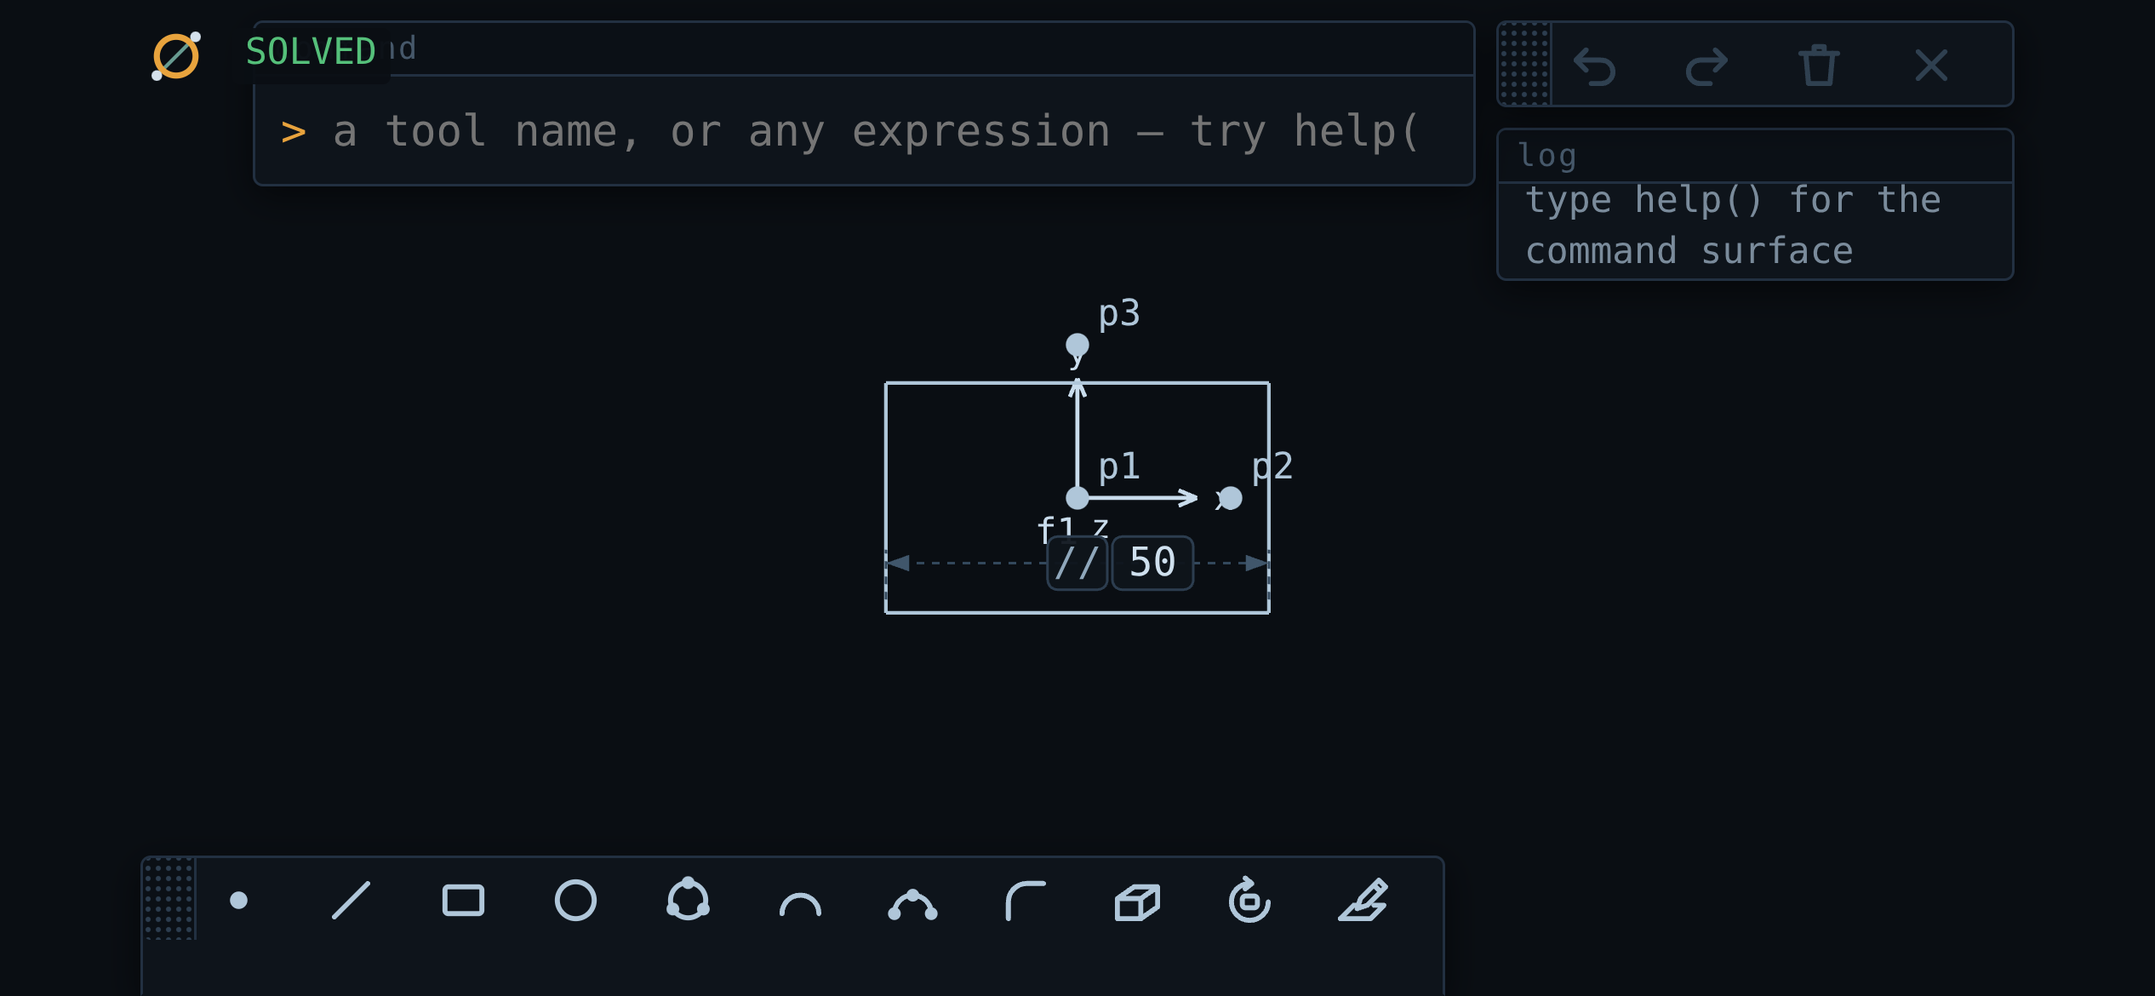
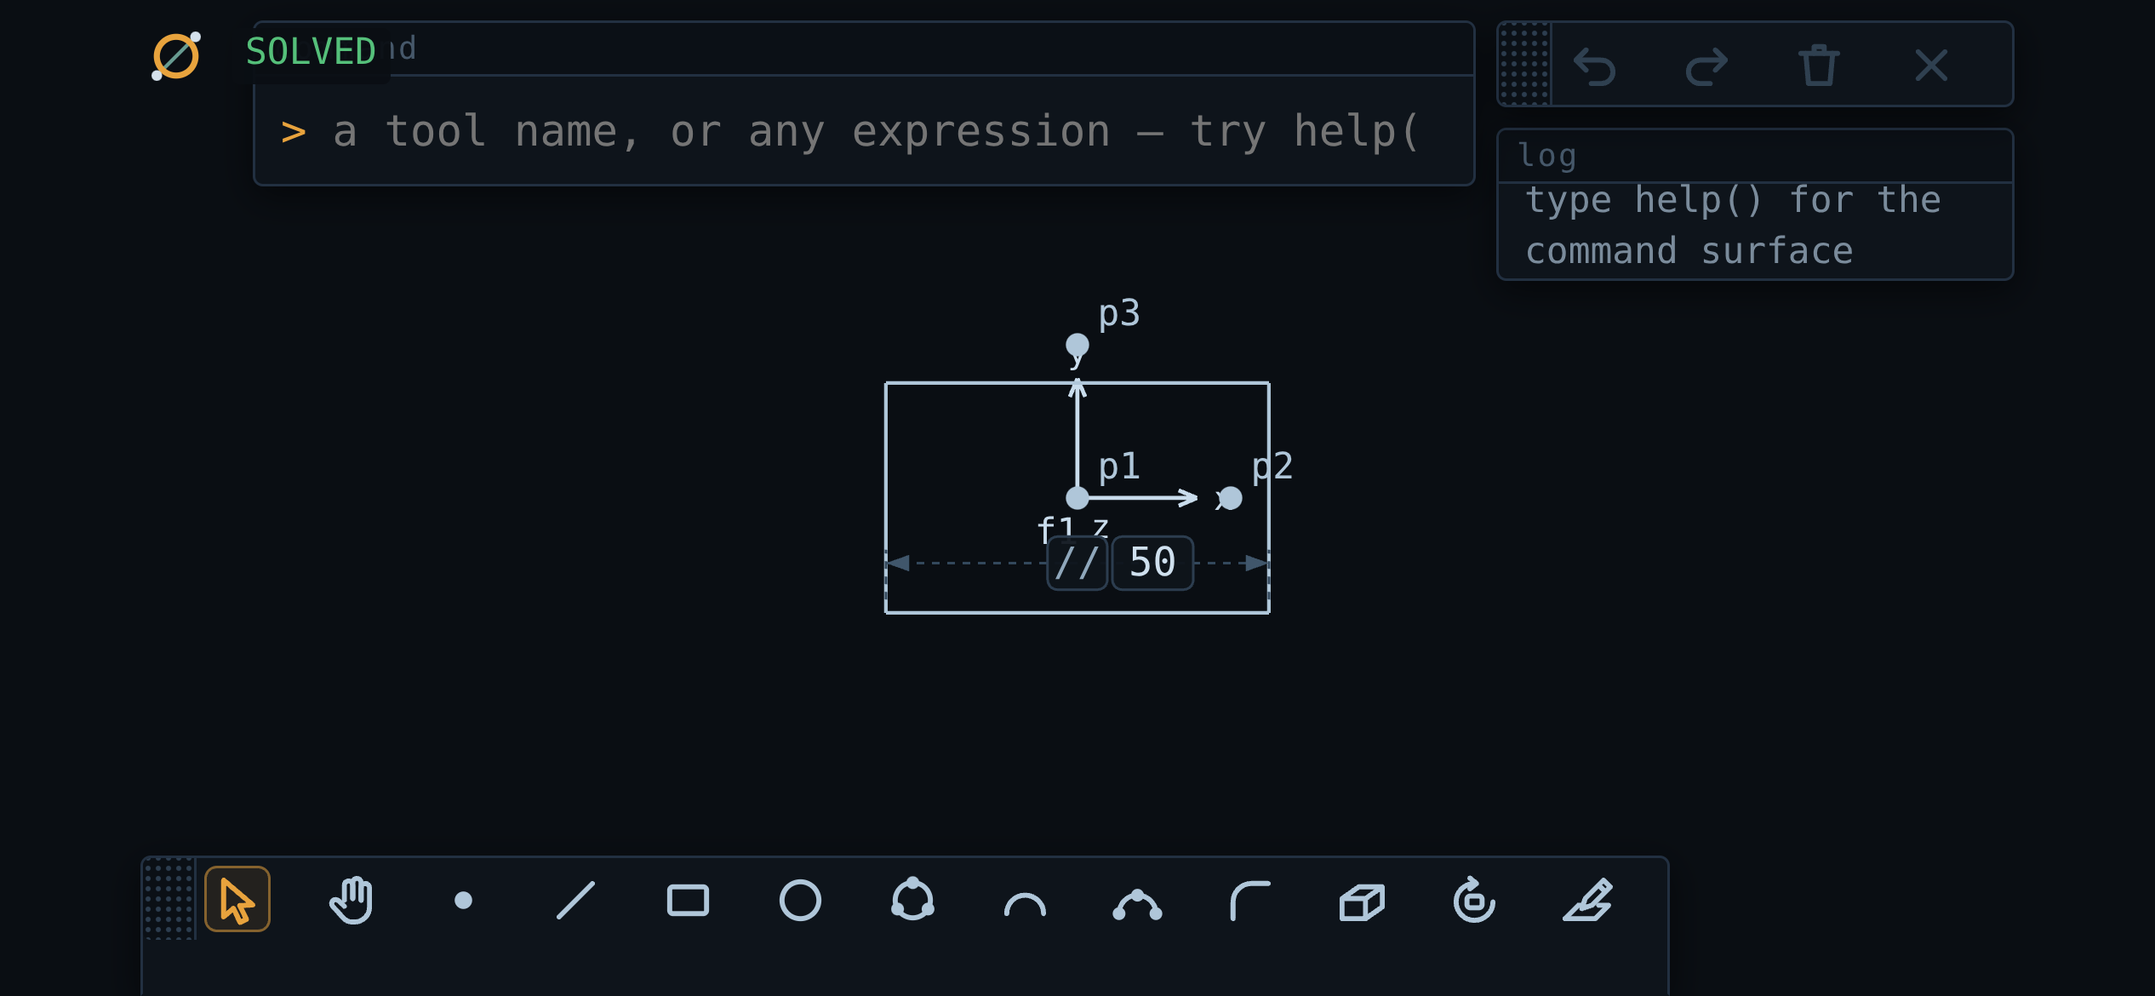
Document Select and the Hand: the spec as built, the register, and the phone pictures
The spec is marked built with an As built section listing every deviation
and the two places its text was wrong about the code (a mouse's left-drag
on empty canvas boxes in 3D too; a feature's first Escape drops its picks
and keeps the tool). The register entry says what can be vetoed; TODO
records the limitation left in place: thirteen buttons and a log do not fit
side by side across a landscape iPhone. The README's phone screenshots are
regenerated from chrome.e2e.ts's pictures, where they came from, so they
show the two new buttons.

Claude-Session: https://claude.ai/code/session_01618MJr41BBEX8dw4D3bj6X

diff --git a/docs/plans/select-hand.md b/docs/plans/select-hand.md
@@ -1,14 +1,17 @@
 # Plan: a Select tool and a Hand tool, first on the toolbar
 
-**Status: queued** (2026-11-04), to start once `chrome-logo-scale.md` has
-merged (it rebuilds the toolbar's sizing and the menu). The owner: *"there is
-no hand/selction tool. would be nice since a lot of people are used to
-that"*.
+**Status: built** (2026-11-04), on `claude/select-hand`, after
+`chrome-logo-scale.md` merged; see *As built* at the end for every deviation.
+The text below is corrected in place where it was wrong about the code,
+marked *(corrected)*. The owner: *"there is no hand/selction tool. would be
+nice since a lot of people are used to that"*.
 
 Today "no tool armed" *is* selection — a click selects, a drag on an entity
-moves it, a drag on empty canvas boxes (2D) or orbits (3D), and under a
-finger one finger on empty canvas orbits and two pan — but nothing on screen
-says so, and panning needs a middle button or two fingers.
+moves it, a left-drag on empty canvas boxes (in 2D and 3D alike; *corrected*:
+it said "boxes (2D) or orbits (3D)", but the mouse's right button orbits and
+its left always boxes), and under a finger one finger on empty canvas orbits
+(pans, in 2D) and two pan — but nothing on screen says so, and panning needs
+a middle button or two fingers.
 
 Read `CLAUDE.md`, `docs/plans/effortless.md`, `touch.md`, `box-select.md`,
 `toolbar-icons-docking.md`, `chrome-logo-scale.md` (as built),
@@ -33,7 +36,9 @@ Read `CLAUDE.md`, `docs/plans/effortless.md`, `touch.md`, `box-select.md`,
 - Icons in the toolbar's existing style (`toolbar-icons-docking.md`),
   checked at every interface size.
 - Escape with a tool armed lights Select again; `cancel()` and the action
-  strip's Cancel do too.
+  strip's Cancel do too. *(Corrected:* with a feature's picks made, the
+  first Escape drops the picks and keeps the tool, as it always has; the
+  second lights Select. Pressing Select drops both at once.)
 
 ## Tests
 
@@ -52,3 +57,91 @@ are asserted, and say where). LOOK at the toolbar in both orientations.
 CHANGELOG at the top quoting the owner; the register (Select is "no tool",
 the Hand pans from anywhere, Space is a temporary hand) as vetoable; STATUS;
 README; `help()`; the spec marked built.
+
+## As built
+
+Built on `claude/select-hand`. By file: `src/tools/tool.ts` (`SELECT`,
+`HAND`, `ENGINE_TOOLS`, `toolbarTools()`, and `defineTool` refusing the two
+names); `src/tools/engine.ts` (`arm("select")`/`arm("hand")` through
+`putDown`, `hand`, `hold` for Space, `handOn`, `lit`, the Hand's press in
+`dispatch` and the finger's `dragStart`, the grab cursor); `src/tools/icons.ts`
+(the arrow and the open hand); `src/main.ts` (the toolbar's list and lit
+button, the tray's count, Space, the bare names, the Hand kept through an
+undo); `src/panels.ts` (`ActionState.hand`, the phone's portrait default);
+`src/replenv.ts` (`tools()`, `help()`). Tests: `test/selecthand.test.ts` (9),
+`test/e2e/selecthand.e2e.ts` (8: four with a mouse, three under fingers in
+iPhone 13 portrait, one in landscape), one more in `test/touchlayout.test.ts`.
+
+Deviations and additions — each a decision, vetoable:
+
+- **Select and the Hand are the engine's, not classes in the registry.** A
+  Tool is handed world coordinates and has no camera to pan, and the Hand's
+  tap must still reach the selection, which is the engine's. So
+  `listTools()` is unchanged, `toolbarTools()` is Select, the Hand, then it,
+  and `tools()` lists the two first. `defineTool("hand", …)` is refused
+  where it is typed — a class under either name could never be armed.
+- **Space is an overlay, not a disarm and re-arm**: the armed tool stays
+  armed underneath, so a half-drawn rectangle or a half-picked extrude is
+  there, as it was, when Space comes up. Only a press made while Space is
+  held pans; a pan begun under it runs to its release. A still click under
+  Space reaches no one (not the tool, which never saw the press; not the
+  selection, which is no business of a tool's gesture).
+- **Space is skipped while anything that takes keys has the focus**, not
+  only the command line: an options field, and a focused button (whose
+  Space presses it). The printable-key routing into the command line skips
+  Space for the same reason: a command never starts with one. A window that
+  loses focus mid-hold lets the Hand go.
+- **The Hand does not spend the selection** (arming a tool does), and
+  `arm("select")` keeps it: Select is "stop drawing", not "forget what I
+  picked". Escape and `cancel()` put down the Hand and the selection
+  together, as they put down a tool and the selection.
+- **The Hand survives an undo** (main.ts's `step` re-arms it, as it re-arms
+  a tool). Opening a file puts it down, as it puts a tool down.
+- **A cursor**: an open hand over the canvas while a press would pan, a
+  closed one while it pans. Not in the spec; a hand tool without one reads as
+  broken.
+- **The bare names arm them**: `hand`, and `select` — which until now
+  printed the `select(...)` function, the canvas-selection command. The
+  bare-name shortcut is "a tool's name arms it", and the toolbar says
+  `select` is a tool's name.
+- **The Hand's options are refused**: `arm("hand", {x: 1})` throws before
+  anything is put down, as an option a tool does not have does.
+- **The phone's portrait default, where the column is too long**: thirteen
+  buttons at a finger's 44 px pitch are a 599 px column, which in Chromium's
+  iPhone 13 (390 × 664: Safari's page, its bars taking what the installed
+  app has) ran 44 px down onto the edge-to-edge command line, and the two
+  were drawn one over the other (a window too small for the resolver to part
+  them, so the dev build's overlap check said nothing). Measured in the
+  screenshot, fixed in `touchLayout`: where the column would reach the line,
+  the line starts right of it, still docked to the bottom and the right
+  edge. The installed app (390 × 763) is edge to edge, as before.
+- **Counts updated where asserted**: `panels.e2e.ts` (`TOOLS` 11 → 13, and
+  the pressed button after Escape or a finished gesture is now Select),
+  `touch.e2e.ts` (13 buttons; the portrait command line edge to edge *or*
+  beside the column), `touchlayout.test.ts` and `chrome.test.ts` (13),
+  `icons.test.ts` (the table covers Select and the Hand).
+- **Two existing tests changed their fixture, not their claim.**
+  `panels.e2e.ts`'s push-chain test lifts the log 200 px, not 250 (it would
+  have landed on the longer column). `chrome.e2e.ts`'s docking-through-
+  rotation test docks the **action strip** to the right edge where it docked
+  the toolbar, and floats the command line where it floated the strip: a
+  13-button line turned to a row along a landscape iPhone's right edge
+  leaves 151 px of the 750 px area, less than a log's least width of 160, so
+  no pane can rest against it there. The strip is four buttons whatever the
+  toolbar holds.
+- **The README's phone screenshots are regenerated** from `chrome.e2e.ts`'s
+  pictures (`chrome-portrait-100.png`, `chrome-landscape-100.png`), which is
+  where they came from.
+
+Limitations left in place, deliberately:
+
+- **A 13-button toolbar and the log do not fit side by side across a
+  landscape iPhone** (above). Docked so, the log is held at the area's edge
+  and overlaps the row by 9 px; nothing reports it, because the resolver
+  says no layout exists. A shorter tray (a second line, or a fold) is the
+  owner's to ask for: he vetoed wrapping (`tray-fixed-line.md`).
+- **Not tried on iOS Safari**: the Hand under a finger is the recogniser's
+  ordinary drag, which the touch package measured in emulation only.
+- **Space on a hardware keyboard under a finger** (an iPad): a finger's
+  drag under it pans, but a tap still reaches the armed tool — the mouse's
+  still click under Space reaches no one. Untested on a device.

diff --git a/TODO.md b/TODO.md
@@ -47,8 +47,15 @@ otherwise.
   is no hand/selction tool. would be nice since a lot of people are used to
   that"*). Select is the "no tool" state made visible (`arm("select")`), lit
   whenever nothing is armed; the Hand pans from anywhere with one finger or a
-  left-drag; Space is a temporary hand on a desktop. Spec:
-  [`select-hand.md`](docs/plans/select-hand.md), after the chrome package.
+  left-drag; Space is a temporary hand on a desktop. **Built** — veto any:
+  Select and the Hand are the engine's, not registry tools (`defineTool`
+  refuses the names); pressing Select, or arming the Hand, keeps the
+  selection, where Escape and `cancel()` drop it with the tool or the Hand;
+  Space is an overlay on the armed tool, which never goes anywhere, and is
+  skipped while any field or button has the focus; a still click under Space
+  reaches no one; the Hand survives an undo; bare `select` arms Select (it
+  printed the `select(...)` function); an open-hand cursor. Spec, with every
+  deviation in its *As built*: [`select-hand.md`](docs/plans/select-hand.md).
 
 - **The organisation method: the groups that exist, plus an open group, in
   an organiser pane** (the owner, 2026-11-04: *"the group view or whatever
@@ -1911,6 +1918,25 @@ extended the way `defineTool` extends the tool registry would close it.
 
 ## Smaller things
 
+- [ ] **Found while building `select-hand.md`** (each documented in the
+      spec's *As built*):
+      - **Thirteen buttons do not fit beside a pane across a landscape
+        iPhone.** A 599 px line (a finger's 44 px pitch) turned to a row on
+        the right edge leaves 151 px of a 750 px area, less than a log's
+        least width (160): docked so, the log overlaps the row by 9 px and
+        nothing reports it (the resolver says no layout exists, which turns
+        the dev build's overlap check off). Every new built-in tool makes
+        this worse. A fold or a second line is the owner's call — he vetoed
+        wrapping (`tray-fixed-line.md`); a shorter least width for the log
+        would only move the edge.
+      - **In Safari's page a phone's portrait column runs past where an
+        edge-to-edge command line starts**; the default now starts the line
+        right of the column there. The installed app is unchanged. Worth
+        the owner's eye in Safari, not installed.
+      - **The owner's iPhone list**: the Hand with one finger over a line
+        (the drawing goes with the finger, the line does not move); Select
+        lit after a finished point and after the strip's Cancel.
+
 - [ ] **Found while building `chrome-logo-scale.md`** (each deliberate and
       documented in the spec's *As built*):
       - **The owner's iPhone list**: the drawing to the glass with nothing
@@ -2348,6 +2374,26 @@ extended the way `defineTool` extends the tool registry would close it.
       the resolver's flush arithmetic assumes does not happen.
 
 ## Done
+
+- [x] **Select and Hand tools, first on the toolbar; Space a temporary
+      hand** (2026-11-04). The owner: *"there is no hand/selction tool.
+      would be nice since a lot of people are used to that"*. Spec:
+      [`docs/plans/select-hand.md`](docs/plans/select-hand.md), marked built,
+      every deviation in its *As built*. `tool.ts`'s `SELECT`/`HAND`/
+      `toolbarTools()`; the engine's `putDown`, `hold`, `lit`, the Hand's
+      press (mouse and finger) and its cursor; two glyphs in `icons.ts`;
+      Space, the toolbar's list and lit button, the Hand through an undo in
+      `main.ts`; `ActionState.hand` and the phone's portrait default in
+      `panels.ts`; `tools()` and `help()`. Unit 1104 (1094 before;
+      `test/selecthand.test.ts` 9, `touchlayout.test.ts` +1); e2e 471 (463
+      before; `selecthand.e2e.ts` 8). **Deviations, in short**: the two are
+      the engine's, not registry tools; Space overlays the armed tool rather
+      than disarming it, and is skipped for any focused field or button, not
+      only the command line; Select and the Hand keep the selection; the Hand
+      survives an undo; a grab cursor; bare `select` arms Select; in Safari's
+      shorter page the portrait command line starts right of the column;
+      `chrome.e2e.ts`'s rotation test docks the action strip, since a
+      13-button row and a log no longer fit across a landscape iPhone.
 
 - [x] **No title bar: a logo over the drawing, each device's own interface
       size, panels to the very edge, docking through a rotation**

diff --git a/CONVERSATION_LOG.md b/CONVERSATION_LOG.md
@@ -106,6 +106,42 @@ Newest first. Each entry is the reasoning behind a chunk of work —
 `CHANGELOG.md` is the shorter, screenshot-carrying version of the same
 story, and `TODO.md` is what is still ahead.
 
+### Select and the Hand: a state given a button, and a press read differently
+
+The owner: *"there is no hand/selction tool. would be nice since a lot of
+people are used to that"*. Neither is new behaviour so much as a name for
+something: "nothing armed" always was selection, and panning always existed
+on the middle button and two fingers. The design question was where each
+lives.
+
+**Not as registry tools.** The first idea was `defineTool("hand", HandTool)`,
+so the button would come for free. Rejected: a Tool is handed world
+coordinates and no camera, so it cannot pan without a new door in
+`ToolContext`; and the Hand's tap has to select, which is the engine's
+selection, reached only on the no-tool path. A HandTool would have needed
+both doors opened, for one tool. So the engine answers `arm("select")` and
+`arm("hand")` itself (`putDown`), `listTools()` is unchanged, the toolbar
+asks `toolbarTools()`, and `defineTool` refuses the two names — a class
+registered as "hand" could never be armed, and should not be accepted
+silently. `ToolEngine.lit` is one answer to "which button", read by the
+toolbar, so Select being lit and `engine.active === null` cannot disagree.
+
+**Space as an overlay, not a disarm.** The obvious reading of "released, the
+previous tool is back" is: remember the tool, arm the Hand, re-arm the tool
+on release. Rejected: a tool put down and armed again is a fresh instance,
+and a fresh instance has no gesture — a rectangle's first corner and an
+extrude's picks would both be gone. `hold(true)` instead only changes how the next press is read;
+the tool never leaves, so there is nothing to bring back.
+
+**What the extra buttons cost on a phone.** Two more at a finger's 44 px
+pitch are 88 px of column. The screenshot (looked at, not measured — the
+numbers said nothing, because a window too small for the resolver switches
+the overlap check off) showed the column drawn over an edge-to-edge command
+line in Safari's 664 px page. Fixed at the default: the line starts right
+of the column where the column would reach it. In landscape a 13-button row
+on the right edge leaves less than a log's least width beside it; that is
+left as a limitation, since the owner vetoed wrapping the tray.
+
 ### No title bar: what "huge" was, where the 60 pt went, and a blur nobody documents
 
 The owner tried 0.1.0 on his iPhone: no title bar, a tiny logo that opens

diff --git a/README.md b/README.md
@@ -139,7 +139,12 @@ one line of its tools — resized from any corner) is a
 REPL over the app's own command surface, and it is the primary interface —
 not a debug console. `help()` lists everything in scope. The toolbar's
 buttons are shortcuts into it: each is a tool's icon (hover for its name),
-types `arm("name")`, and the log shows it. A tool with options — extrude's
+types `arm("name")`, and the log shows it. The first two are **Select** — the
+arrow, lit whenever no tool is armed, which puts the armed tool down and
+keeps what is selected — and **the Hand**, with which a left-drag (or one
+finger) pans from wherever it starts, over geometry too, while a click still
+selects. Holding **Space** is a hand for as long as it is held, over
+whatever tool is armed. A tool with options — extrude's
 depth, revolve's angle, fillet's radius — shows them in a small panel beside
 the toolbar while it is armed; editing a field types
 `arm("extrude", {depth: 25})` into the same command line, and the last value
@@ -253,7 +258,8 @@ ordinary lines in `par` still move each other; that asymmetry is what makes a
 frame a datum.
 
 The viewport works the way Onshape's does: **right-drag orbits**, middle-drag
-pans, the wheel zooms about the cursor. The camera is orthographic and starts
+pans, the wheel zooms about the cursor — and a left-drag pans too with the
+Hand armed or Space held. The camera is orthographic and starts
 square-on — the drawing in the plane z = 0, exactly as a 2D sketcher shows it
 — and `orbit(yaw, pitch)`, `pan(dx, dy)`, `zoom(f)` and `lookAt(frame?)` do the
 same from the command line (`lookAt` puts a frame's plane square to the screen,
@@ -411,6 +417,9 @@ emulation, since only the device runs iOS Safari):
   point or edge it lands on; on empty canvas with nothing armed it **turns the
   drawing**.
 - **two fingers** — pan and pinch-zoom, together.
+- **the Hand** (second on the toolbar) — one finger pans instead, from
+  anywhere, over geometry too; a tap still selects. **Select** (the arrow,
+  first) puts any tool down; it is lit whenever none is armed.
 - **hold** (half a second) — the menu, at the finger; **hold, then drag** — a
   selection box.
 - A second finger drops a shape half-drawn; a third drops everything.

diff --git a/CHANGELOG.md b/CHANGELOG.md
@@ -7,6 +7,43 @@ decisions.
 
 ---
 
+## Select and Hand tools, first on the toolbar; Space is a temporary hand
+
+The owner:
+
+> *there is no hand/selction tool. would be nice since a lot of people are
+> used to that*
+
+Spec: [`docs/plans/select-hand.md`](docs/plans/select-hand.md), built, with
+every deviation in its *As built*.
+
+- **Select**, an arrow, is the toolbar's first button and is **lit whenever
+  no tool is armed** — which is what selecting always was; now it says so.
+  Pressing it types `arm("select")`: the armed tool is put down (a feature
+  dialog's picks with it) and **the selection is kept**. Escape, `cancel()`
+  and the action strip's Cancel light it again too.
+- **The Hand**, second, types `arm("hand")`. Armed, **a left-drag or one
+  finger pans from wherever it starts** — over a line or a point too, and
+  nothing moves; a click or a tap still selects; the wheel and a pinch still
+  zoom. It stays armed until another tool is chosen. The cursor is an open
+  hand, closed while panning.
+- **Holding Space** (on a desktop) is a hand for as long as it is held, over
+  whatever is armed: a half-drawn rectangle is still there when it comes up,
+  and the rectangle's button is lit again. Not while the command line — or
+  any field — has the focus, where Space is a space.
+- `tools()` lists both first, `hand` and `select` typed bare arm them,
+  `help()` says all of it, and `defineTool` refuses the two names.
+- **On a phone in portrait in Safari** (a shorter page than the installed
+  app's), the toolbar's column, two buttons longer, would have run down onto
+  the command line; there the command line now starts right of the column,
+  still along the bottom. The installed app is as before.
+- Tests: `test/selecthand.test.ts` (9) and `test/e2e/selecthand.e2e.ts` (8,
+  mouse and iPhone 13); the toolbar suites updated for thirteen buttons.
+  **Not tried on an iPhone**: worth trying the Hand with one finger over the
+  drawing, and that Select lights after a finished point.
+
+---
+
 ## No title bar: a logo over the drawing, each device's own interface size, panels to the very edge
 
 The owner tried 0.1.0 on his iPhone and sent two screenshots:

diff --git a/STATUS.md b/STATUS.md
@@ -34,6 +34,15 @@ etc).
   migrated) as what each side rests against, and re-laid by that in any area
   (`relaid`), so a rotation keeps it. The installed app's status bar is
   `default` (iOS 26 blurs a translucent one).
+- **Select and the Hand head the toolbar** (docs/plans/select-hand.md,
+  built). Select (`arm("select")`) is "no tool", lit whenever nothing is
+  armed; pressing it puts the armed tool down and keeps the selection. The
+  Hand (`arm("hand")`) makes a left-drag or one finger pan from wherever it
+  starts, moving nothing, a still press still picking; Space held is a Hand
+  over the armed tool (`ToolEngine.hold`). Both are the engine's
+  (`tool.ts`'s `ENGINE_TOOLS`, `toolbarTools()`), not registry classes, and
+  `defineTool` refuses their names; `ToolEngine.lit` is the button the
+  toolbar lights.
 - **`kernel-rs/`** — Rust crate, compiles to WASM via `npm run build:kernel`.
   Exposes one function: `solve_step(rows, cols, vals, r, n, lambda) -> dx`,
   a matrix-free conjugate-gradient solve of the damped normal equations
